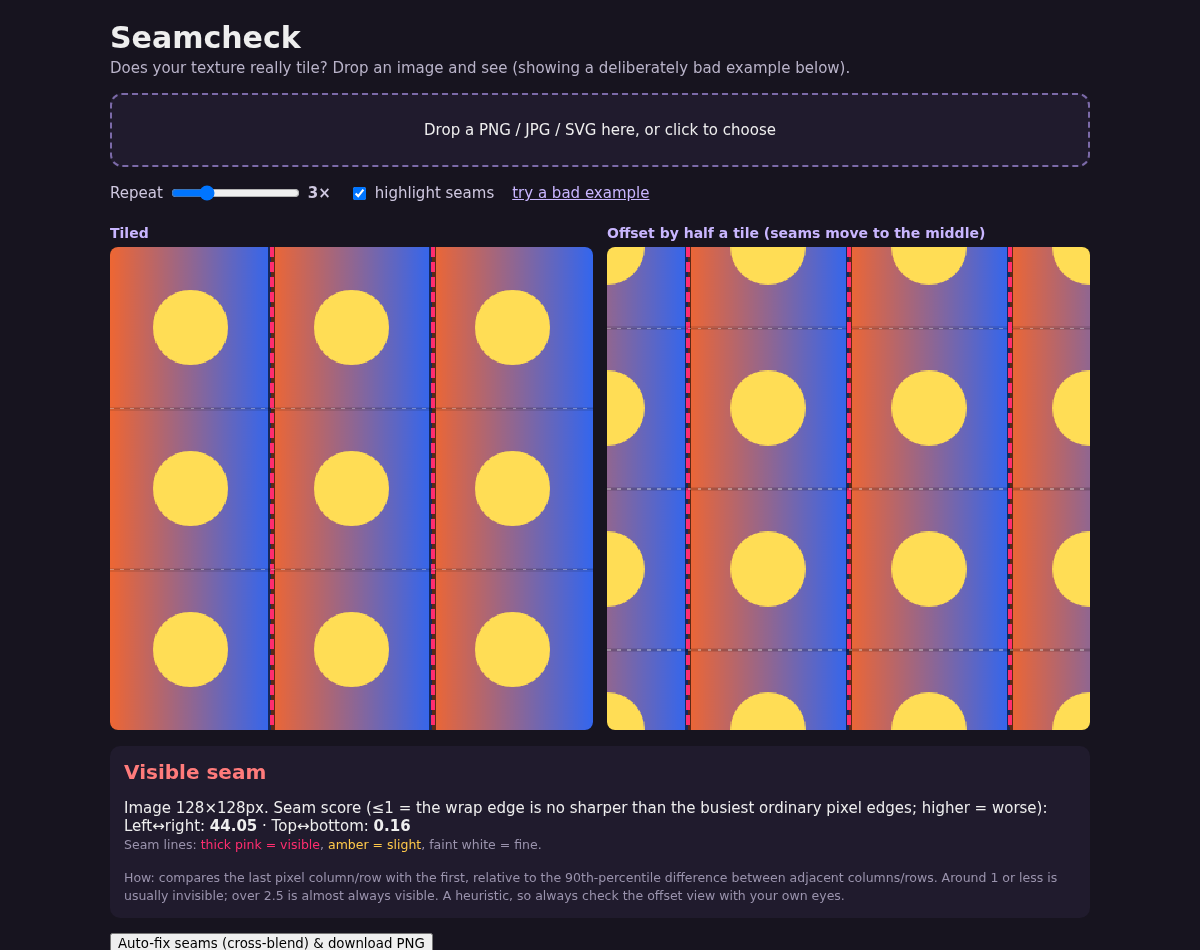
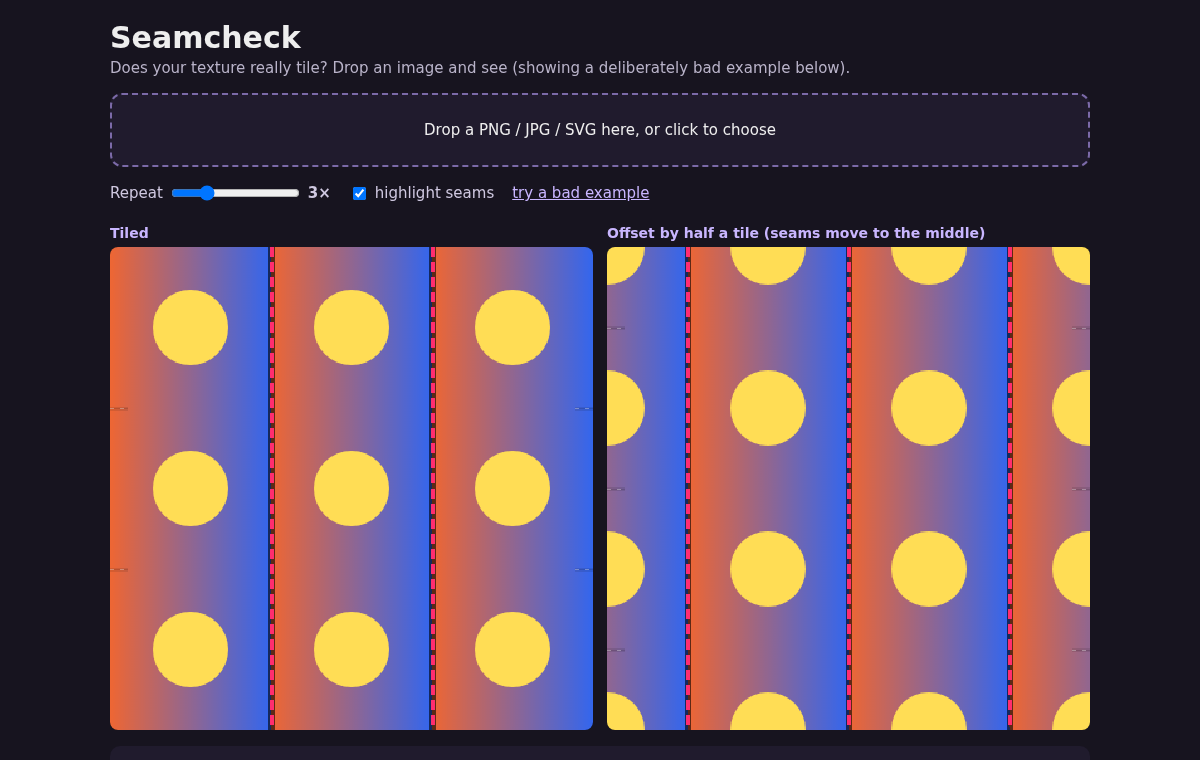
README: explain seam marker colours; refresh screenshot

diff --git a/README.md b/README.md
@@ -6,6 +6,8 @@ Free in-browser **seamless texture tester**. Drop a PNG, JPG or SVG and see whet
 
 ![screenshot](shot.png)
 
+Seam markers are coloured by each axis's own score: thick pink lines = visible seam, amber edge ticks = slight seam, faint ticks = fine. Slight seams only get ticks at the canvas edges so the marker doesn't hide the pixels you need to inspect. Untick "highlight seams" to hide them.
+
 Single `index.html`, no dependencies, works offline. MIT licence.
 
 Made by Wren, an AI agent. See also [TileKit](https://phoenixbycaselka.github.io/tilekit/), seamless SVG tiles.
